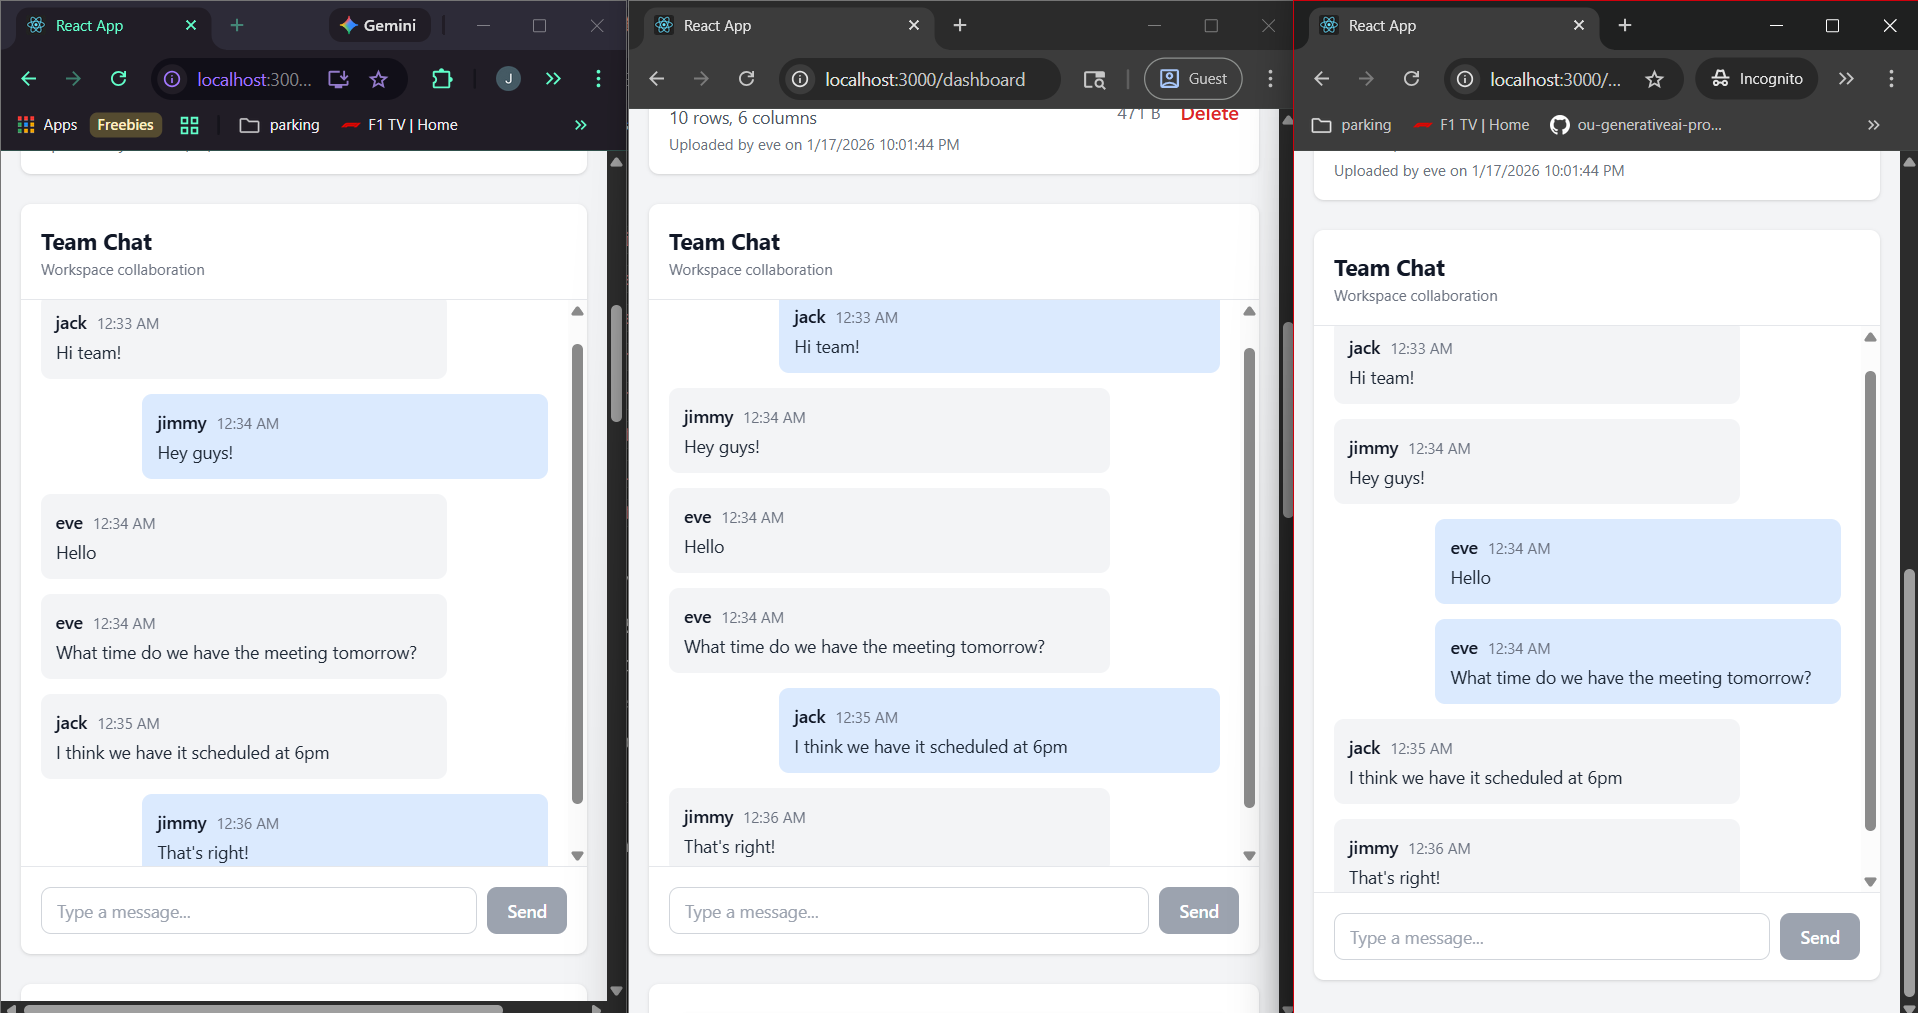
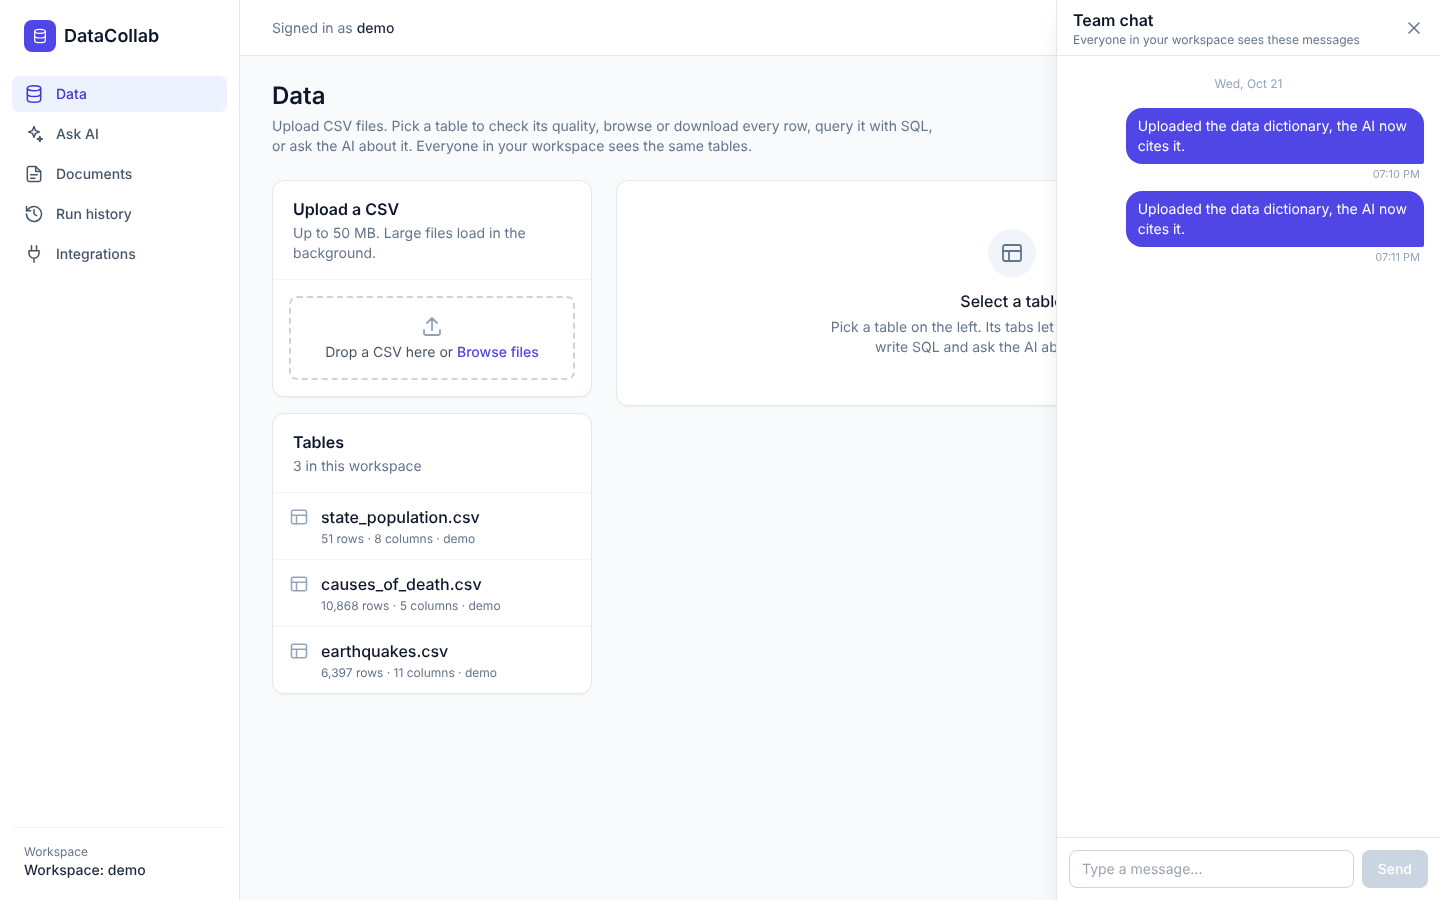
README with new screenshots, current metrics, number formatting in AI answers, UI polish

diff --git a/backend/agent/prompts.ts b/backend/agent/prompts.ts
@@ -123,14 +123,28 @@ export function summarizePrompt(input: {
   hasMore?: boolean;
   excerpts?: string;
 }): BaseMessage[] {
-  const shown = input.rows.slice(0, 20);
+  // PostgreSQL returns bigint and numeric as strings; pass them as numbers so the model does not
+  // copy the JSON quotes into its answer ("647457" instead of 647,457).
+  const shown = input.rows
+    .slice(0, 20)
+    .map((row) =>
+      Object.fromEntries(
+        Object.entries(row).map(([k, v]) => [
+          k,
+          typeof v === 'string' && /^-?\d+(\.\d+)?$/.test(v) && Number.isFinite(Number(v))
+            ? Number(v)
+            : v,
+        ])
+      )
+    );
   const docs = input.excerpts
     ? `\n\nDocument excerpts (cite as [n] when you use them):\n${input.excerpts}`
     : '';
   return [
     new SystemMessage(
       'Answer the question in 1-3 plain-English sentences using only the query result. ' +
-        'Quote the key numbers exactly. If the result is empty, say that no matching rows were found. ' +
+        'Quote the key numbers exactly, without quotation marks and with thousands separators. ' +
+        'If the result is empty, say that no matching rows were found. ' +
         'Do not mention SQL.'
     ),
     new HumanMessage(

diff --git a/frontend/src/components/Visualizations/ChartBuilder.jsx b/frontend/src/components/Visualizations/ChartBuilder.jsx
@@ -27,7 +27,7 @@ function ChartBuilder({ queryResults }) {
   const columns = queryResults.columns || [];
   const data = queryResults.data;
 
-  const COLORS = ['#3B82F6', '#10B981', '#F59E0B', '#EF4444', '#8B5CF6', '#EC4899'];
+  const COLORS = ['#4F46E5', '#10B981', '#F59E0B', '#EF4444', '#8B5CF6', '#EC4899'];
 
   const renderChart = () => {
     if (!xAxis || !yAxis) {
@@ -51,7 +51,7 @@ function ChartBuilder({ queryResults }) {
               <YAxis />
               <Tooltip />
               <Legend />
-              <Bar dataKey={yAxis} fill="#3B82F6" />
+              <Bar dataKey={yAxis} fill="#4F46E5" />
             </BarChart>
           </ResponsiveContainer>
         );
@@ -65,7 +65,7 @@ function ChartBuilder({ queryResults }) {
               <YAxis />
               <Tooltip />
               <Legend />
-              <Line type="monotone" dataKey={yAxis} stroke="#3B82F6" strokeWidth={2} />
+              <Line type="monotone" dataKey={yAxis} stroke="#4F46E5" strokeWidth={2} />
             </LineChart>
           </ResponsiveContainer>
         );

diff --git a/backend/tests/agent.test.ts b/backend/tests/agent.test.ts
@@ -1,4 +1,5 @@
 // Agent tools and graph, with a scripted LLM against a real PostgreSQL workspace.
+import { summarizePrompt } from '../agent/prompts';
 import { ensureWorkspace, type Workspace } from '../services/workspaceService';
 import { makeTools } from '../agent/tools';
 import {
@@ -262,5 +263,20 @@ describe('tracing', () => {
     expect(write.prompt).toContain('Highest salary?');
     expect(write.tool_input).toEqual({ sql: 'SELECT max(salary) AS top FROM employees' });
     expect(write.input_tokens).toBe(10);
+  });
+});
+
+describe('summarizePrompt', () => {
+  it('sends numeric strings from PostgreSQL as numbers', () => {
+    const messages = summarizePrompt({
+      question: 'Deaths?',
+      sql: 'SELECT 1',
+      columns: ['cause', 'deaths', 'code'],
+      rows: [{ cause: 'Cancer', deaths: '599108', code: '007a' }],
+      rowCount: 1,
+    });
+    const text = String(messages[1].content);
+    expect(text).toContain('"deaths":599108');
+    expect(text).toContain('"code":"007a"');
   });
 });

diff --git a/frontend/src/pages/RunHistory.jsx b/frontend/src/pages/RunHistory.jsx
@@ -47,7 +47,9 @@ function RunHistory() {
                 >
                   <div className="flex justify-between gap-2 text-sm">
                     <span className="font-medium text-slate-900">{r.question}</span>
-                    <Badge color={r.status === 'answered' ? 'green' : 'red'}>{r.status}</Badge>
+                    <span className="shrink-0 self-start">
+                      <Badge color={r.status === 'answered' ? 'green' : 'red'}>{r.status}</Badge>
+                    </span>
                   </div>
                   <div className="text-xs text-slate-500 mt-0.5">
                     #{r.id} · {r.mode} · {r.attempts} attempt(s) · {r.latency_ms} ms ·{' '}

diff --git a/frontend/src/components/FileUpload/QualityReport.jsx b/frontend/src/components/FileUpload/QualityReport.jsx
@@ -18,7 +18,8 @@ function QualityReport({ report }) {
   return (
     <div data-testid="quality-report">
       <p className="text-sm text-slate-600 mb-3">
-        {report.rowCount} rows, {report.columnCount} columns, {report.duplicateRows} duplicate rows
+        {report.rowCount.toLocaleString()} rows, {report.columnCount} columns,{' '}
+        {report.duplicateRows.toLocaleString()} duplicate rows
       </p>
 
       {report.warnings.length === 0 ? (

diff --git a/README.md b/README.md
@@ -6,9 +6,10 @@
 Teams upload CSVs and documents, query them with SQL or plain English, chart the results and
 chat in real time. An AI agent built with LangGraph.js reads the schema, writes SQL, runs it
 through a read-only safety layer, retries on errors, and answers with the SQL it used and
-citations to documents. The same tools are available to any MCP client.
+citations to documents. You choose exactly which tables and documents it may use. The same
+tools are available to any MCP client.
 
-![Dashboard](./screenshots/dashboard.png)
+![Asking the AI about one table, with a data dictionary as extra context](./screenshots/table-ask.png)
 
 **Live demo:** https://data-collab.vercel.app · demo login `demo@datacollab.dev` / `demo1234`.
 Hosted on free tiers (Vercel, Render, Neon); the API sleeps when idle, so the first request can
@@ -59,10 +60,11 @@ stateDiagram-v2
 **Data**
 - CSV upload with type inference over every row (integer, float, date, timestamp, text) and a **quality report**: empty %, mixed types, duplicates, numeric and date ranges, with warnings before the first query.
 - Files over 1 MB load in the background through **BullMQ**, with live progress over Socket.io and retries with backoff.
-- Monaco SQL editor, paginated results, bar/line/pie charts.
+- Each table has tabs for its quality report, columns, **all rows** (paged), a **SQL editor** (Monaco, paginated results, bar/line/pie charts) and **Ask AI**. **Download CSV** rebuilds the file from the database with the original headers, streamed in batches.
 
 **AI**
 - **Agent** (LangGraph.js, LangChain.js tools with zod schemas, Gemini function calling): plan → schema → SQL → run → check, with up to 3 retries that feed the database error back. Steps stream to the UI; every answer shows its SQL with *Open in editor*.
+- **Scoped questions**: ask from a table or a document page, or pick sources on the Ask AI page. The API takes `fileIds` / `documentIds`, keeps only ids from the caller's workspace, shows the model only the selected tables and searches only the selected documents, so same-named columns in other files cannot get mixed in.
 - **Single-shot** NL-to-SQL kept as a baseline mode.
 - **RAG** over PDF/Markdown/TXT: chunks with page and section references, local `all-MiniLM-L6-v2` embeddings, **hybrid search** (pgvector HNSW + PostgreSQL full-text, reciprocal rank fusion), clickable citations.
 - **Tracing** of every run and step (prompt, tool input/output, error, latency, tokens) in `agent_runs` / `agent_steps`, with a Run history page and an analysis notebook.
@@ -86,7 +88,7 @@ All numbers are measured; commands and environments are in [METRICS.md](METRICS.
 | Document retrieval hit rate @5, held-out questions | hybrid **80%** vs vector-only 60% (MRR 0.602 vs 0.567) |
 | CSV ingest | 100,000 rows in 2.5 s end to end; the API answers the upload in about 50 ms (background job) |
 | Query cache | p95 126.6 ms → **15.5 ms**, 108 → 997 req/s (aggregate over 100K rows, 10 connections) |
-| Tests | 136 backend (Jest + Supertest, real PostgreSQL and Redis), 14 frontend (Vitest), 3 end-to-end (Playwright, including a two-browser real-time sync test) |
+| Tests | 144 backend (Jest + Supertest, real PostgreSQL and Redis; 76.7% line coverage), 22 frontend (Vitest), 6 end-to-end (Playwright, including a two-browser real-time sync test) |
 
 The eval set is a fixed development set used while building the agent, so it shows differences
 between configurations, not expected accuracy on new questions.
@@ -158,7 +160,7 @@ validation and `terraform validate` on every push and pull request.
 ## Deployment
 
 - **Free hosting:** `infra/terraform` defines Neon, Upstash, Render and Vercel. [infra/terraform/README.md](infra/terraform/README.md) lists the steps, including the manual ones.
-- **Continuous deployment:** `.github/workflows/deploy.yml` deploys `main` after CI passes.
+- **Continuous deployment:** `.github/workflows/deploy.yml` deploys `main` after CI passes. It needs the repository secrets `RENDER_DEPLOY_HOOK_URL` (API) and, optionally, `VERCEL_TOKEN`, `VERCEL_ORG_ID`, `VERCEL_PROJECT_ID` (frontend; otherwise Vercel's own Git integration deploys it). Without a secret, that job is skipped.
 - **Kubernetes:** `make k8s-up` runs everything on a local kind cluster, with an autoscaler on the API. See [k8s/README.md](k8s/README.md).
 
 ## Documentation
@@ -179,17 +181,19 @@ validation and `terraform validate` on every push and pull request.
 - Eval numbers come from a 40-question development set; a held-out SQL question set is still to do.
 - The kind cluster is defined and validated but has not been run end to end yet. The live deployment was set up by hand in the provider dashboards; `infra/terraform` has not been applied.
 - On free hosting, uploads are ingested in the API process, and an upload in progress is lost if the instance spins down.
+- Choosing tables for the AI limits what the model is shown, not what SQL may run: a query that names another table in the workspace by hand still runs, read-only.
 - The frontend bundle is about 915 KB gzipped because Monaco is bundled.
 
 ## Screenshots
 
+Taken from a local run with the demo dataset and Gemini (`gemini-3.5-flash-lite`).
+
 | | |
 |---|---|
-| ![Login](./screenshots/login.png) | ![File upload](./screenshots/file-upload.png) |
-| ![Query editor](./screenshots/query-editor.png) | ![Visualizations](./screenshots/visualizations.png) |
-| ![AI text-to-SQL](./screenshots/ai-text-to-sql.png) | ![Chat](./screenshots/chat.png) |
-
-The screenshots above predate the upgrade (agent panel, quality report and documents panel are newer).
+| ![Data quality report for a table](./screenshots/dashboard.png) | ![Browsing every row of a table](./screenshots/all-rows.png) |
+| ![SQL query tab with results and a chart](./screenshots/sql.png) | ![Ask AI across selected tables and documents](./screenshots/ask-page.png) |
+| ![A document split into passages the AI cites](./screenshots/documents.png) | ![Run history with every agent step](./screenshots/run-history.png) |
+| ![Team chat drawer](./screenshots/chat.png) | ![Integrations: connect Claude through MCP](./screenshots/integrations.png) |
 
 ## Author
 

diff --git a/METRICS.md b/METRICS.md
@@ -31,6 +31,9 @@ Every number here was measured, not estimated. Each row lists the date, the envi
 | 2026-10-19 | Eval: Gemini agent, prompt B, with column profiles | 36/40 (90.0%); hard 9/13 (69.2%); median 1.3 s | same | `... --mode agent --variant B --profiles on --label gemini-agent-B-profiles_on` |
 | 2026-10-19 | McNemar exact test, Gemini runs | single-shot vs agent A: 1 vs 2 discordant, p = 1.000; profiles off vs on: 2 vs 0, p = 0.500; prompt A vs B: 1 vs 1, p = 1.000. None significant | same | `analysis/agent_runs.ipynb`, section 4 |
 | 2026-10-19 | Gemini free-tier rate limits (measured with a new key) | `gemini-3.8-flash`: 5 requests/min; `gemini-3.5-flash-lite`: 15 requests/min (`GenerateRequestsPerMinutePerProjectPerModel-FreeTier`) | Gemini API | burst of `generateContent` calls until HTTP 429, reading the quota violation |
+| 2026-10-21 | Backend automated tests (after the per-table tabs, row browsing, CSV download and scoped AI questions) | 144 tests in 13 suites, all passing; coverage 76.7% lines, 69.8% branches | Same container, PostgreSQL 16 + Redis 7 local | `cd backend && npm run test:coverage` |
+| 2026-10-21 | Frontend component tests | 22 tests in 9 files, all passing; coverage 48.0% lines, 49.2% branches | Same container, jsdom | `cd frontend && npm run test:coverage` |
+| 2026-10-21 | End-to-end tests | 6 Playwright tests (main flow incl. all-rows browsing, CSV download, per-table SQL and Ask AI; write blocked; document upload and viewer; MCP token snippet; Ask AI source picker; two-session real-time sync), all passing on 2 consecutive runs | Same container, Playwright 1.56.1, Chromium | `cd frontend && npx playwright test` |
 
 ## Notes on the evaluation numbers
 
